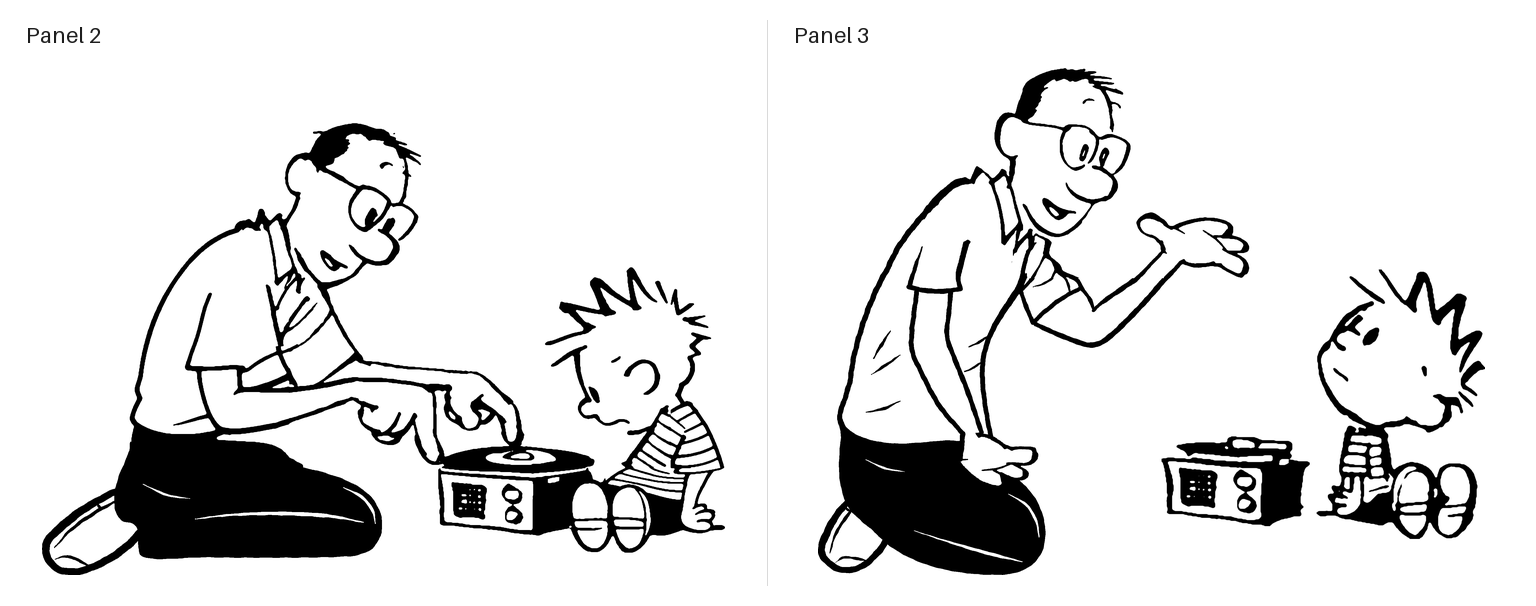
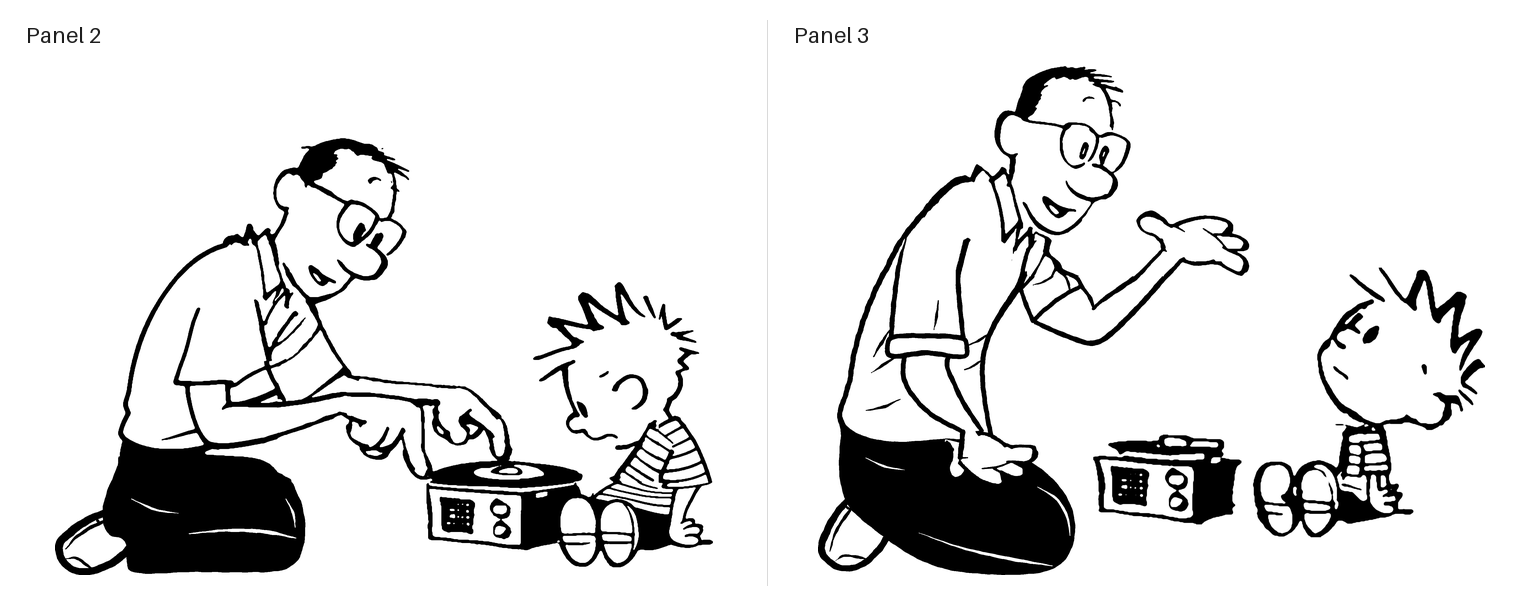
Knee where the scan puts it; Dad's real sleeve; Calvin faces the player
Panel 2: the black at the scan's bottom-left corner is the top of Dad's
knee, already turning down at the crop's foot, so the knee now comes
straight down to the floor there instead of running on to a second knee
further out. The lap is compact under his forearm and the trailing shoe
shorter.

Panel 3: the near sleeve is drawn as his sleeves are in panels 1 and 2,
long and loose with a turned-up cuff, and the forearm comes out below
it. The resting hand has its thumb again, turned to lie down the side of
the thigh. The thigh is longer again, with the knee lower and further
out.

Calvin in panel 3 faces the player as in panel 2: his body is panel 1's
turned about the middle of his torso, under his unchanged head, and the
player moves left to stay in front of his feet. The inserts are inked
over the panel so they leave the scanned crop untouched.

diff --git a/panels.html b/panels.html
@@ -8,12 +8,12 @@
 <p class="details">2834 × 2066 pixels · original-crop agreement: 100% · <a href="assets/full-panels/panel1.png?v=b03ae498a9" download="panel1.png">Download PNG</a> · <a href="assets/full-panels/panel1.png?v=b03ae498a9" target="_blank" rel="noopener">Open full size</a></p>
 <label><input class="show-source" type="checkbox"> Show original crop overlay</label>
 <div class="scroll"><div class="stage" style="--native-width:2834px"><img class="complete" src="assets/full-panels/panel1.png?v=b03ae498a9" width="2834" height="2066" alt="Completed comic panel 1 without dialogue" loading="lazy"><img class="source" src="assets/full-panels/original1.png" style="left:14.114326040931546%;top:0.0%;width:57.657021877205366%" width="1634" height="2066" alt="Original crop of panel 1" hidden></div></div></section><section id="panel-2"><h2>Panel 2</h2><p>Dad points to the record, sitting back on his heels. His trousers are drawn in code (drawn_legs.py); the trailing shoe is panel 1's planted shoe turned sole up. The player uses the grille and knobs from panel 1.</p>
-<p class="details">3182 × 3660 pixels · original-crop agreement: 99.251% · <a href="assets/full-panels/panel2.png?v=4a33fd94bb" download="panel2.png">Download PNG</a> · <a href="assets/full-panels/panel2.png?v=4a33fd94bb" target="_blank" rel="noopener">Open full size</a></p>
+<p class="details">3182 × 3660 pixels · original-crop agreement: 99.251% · <a href="assets/full-panels/panel2.png?v=966a9f53e3" download="panel2.png">Download PNG</a> · <a href="assets/full-panels/panel2.png?v=966a9f53e3" target="_blank" rel="noopener">Open full size</a></p>
 <label><input class="show-source" type="checkbox"> Show original crop overlay</label>
-<div class="scroll"><div class="stage" style="--native-width:3182px"><img class="complete" src="assets/full-panels/panel2.png?v=4a33fd94bb" width="3182" height="3660" alt="Completed comic panel 2 without dialogue" loading="lazy"><img class="source" src="assets/full-panels/original2.png" style="left:25.1414204902577%;top:0.0%;width:49.7171590194846%" width="1582" height="2060" alt="Original crop of panel 2" hidden></div></div></section><section id="panel-3"><h2>Panel 3</h2><p>Dad rests his hand on his thigh. Everything of him outside the scanned crop is drawn in code (drawn_legs.py); the resting hand is his scanned gesturing hand turned palm down. Calvin looks up at Dad with his feet still toward the player. His figure and the player come from panel 1, enlarged by 56% for this closer view.</p>
-<p class="details">3174 × 3660 pixels · original-crop agreement: 100% · <a href="assets/full-panels/panel3.png?v=d9b1590dc4" download="panel3.png">Download PNG</a> · <a href="assets/full-panels/panel3.png?v=d9b1590dc4" target="_blank" rel="noopener">Open full size</a></p>
+<div class="scroll"><div class="stage" style="--native-width:3182px"><img class="complete" src="assets/full-panels/panel2.png?v=966a9f53e3" width="3182" height="3660" alt="Completed comic panel 2 without dialogue" loading="lazy"><img class="source" src="assets/full-panels/original2.png" style="left:25.1414204902577%;top:0.0%;width:49.7171590194846%" width="1582" height="2060" alt="Original crop of panel 2" hidden></div></div></section><section id="panel-3"><h2>Panel 3</h2><p>Dad rests his hand on his thigh. Everything of him outside the scanned crop is drawn in code (drawn_legs.py); the resting hand is his scanned gesturing hand turned palm down. Calvin looks up at Dad with his feet still toward the player. His figure and the player come from panel 1, enlarged by 56% for this closer view.</p>
+<p class="details">3174 × 3660 pixels · original-crop agreement: 100% · <a href="assets/full-panels/panel3.png?v=2e81b17076" download="panel3.png">Download PNG</a> · <a href="assets/full-panels/panel3.png?v=2e81b17076" target="_blank" rel="noopener">Open full size</a></p>
 <label><input class="show-source" type="checkbox"> Show original crop overlay</label>
-<div class="scroll"><div class="stage" style="--native-width:3174px"><img class="complete" src="assets/full-panels/panel3.png?v=d9b1590dc4" width="3174" height="3660" alt="Completed comic panel 3 without dialogue" loading="lazy"><img class="source" src="assets/full-panels/original3.png" style="left:25.20478890989288%;top:0.0%;width:49.59042218021424%" width="1574" height="2060" alt="Original crop of panel 3" hidden></div></div></section><section id="panel-4"><h2>Panel 4</h2><p>Original night scene with the existing completed left side of the bed.</p>
+<div class="scroll"><div class="stage" style="--native-width:3174px"><img class="complete" src="assets/full-panels/panel3.png?v=2e81b17076" width="3174" height="3660" alt="Completed comic panel 3 without dialogue" loading="lazy"><img class="source" src="assets/full-panels/original3.png" style="left:25.20478890989288%;top:0.0%;width:49.59042218021424%" width="1574" height="2060" alt="Original crop of panel 3" hidden></div></div></section><section id="panel-4"><h2>Panel 4</h2><p>Original night scene with the existing completed left side of the bed.</p>
 <p class="details">2368 × 2042 pixels · original-crop agreement: 100% · <a href="assets/full-panels/panel4.png?v=4821633204" download="panel4.png">Download PNG</a> · <a href="assets/full-panels/panel4.png?v=4821633204" target="_blank" rel="noopener">Open full size</a></p>
 <label><input class="show-source" type="checkbox"> Show original crop overlay</label>
 <div class="scroll"><div class="stage" style="--native-width:2368px"><img class="complete" src="assets/full-panels/panel4.png?v=4821633204" width="2368" height="2042" alt="Completed comic panel 4 without dialogue" loading="lazy"><img class="source" src="assets/full-panels/original4.png" style="left:16.89189189189189%;top:0.0%;width:66.21621621621621%" width="1568" height="2042" alt="Original crop of panel 4" hidden></div></div></section><footer><p>The source comparisons use the cleaned, smoothed artwork extracted from page 247, with lettering and balloons removed. Panel 4’s signature remains a separate asset. Agreement percentages count every pixel in the original crop, including white background; panel 2 includes the earlier elbow repair. Panel 3 preserves every original ink pixel and directly reuses the original seated Calvin and record player.</p><p><a href="assets/full-panels/verification.json">Pixel comparison results</a> · <a href="assets/full-panels/provenance.json">Artwork sources and rebuild steps</a></p></footer></main>

diff --git a/tools/extensions/reconstruction-v2/drawn_legs.py b/tools/extensions/reconstruction-v2/drawn_legs.py
@@ -98,22 +98,22 @@ def panel_two(image):
     ink = Ink((w, h), seed=2)
     # His near foot trails behind him, toe on the floor and heel up under his
     # seat, the sole turned back: the same shoe as in panel 3, seen side on.
-    shoe(ink, heel=(446, 2196), angle=146, scale=0.95, flip=True, foreshorten=0.78)
-    # The trousers. His seat rounds out behind him over his heels; the
-    # thigh runs forward to one round knee on the floor; the shin lies under
-    # it, back to the ankle under his seat. The top edge continues the
-    # scanned silhouette (the last points) and the hem of his shirt.
+    shoe(ink, heel=(450, 2214), angle=150, scale=0.84, flip=True, foreshorten=0.62)
+    # The trousers. In the scan the top of his knee is just under his
+    # forearm, its front already turning down at the crop's foot (x=1051),
+    # so the knee comes straight down to the floor there. His seat rounds
+    # out behind him over his heels and the shin lies under the thigh.
     ink.fill([(428, 1962), (420, 2000), (400, 2048), (378, 2104), (366, 2160),
               (370, 2214), (392, 2252), (432, 2262), (452, 2290), (452, 2340),
-              (466, 2380), (700, 2385), (1000, 2386), (1180, 2383), (1252, 2376),
-              (1302, 2352), (1330, 2308), (1336, 2252), (1318, 2196), (1280, 2150),
-              (1215, 2110), (1140, 2082), (1090, 2068), (1051, 2058), (1033, 2040),
-              (980, 2000), (720, 1990), (720, 1962)], wobble=1.2)
-    # Folds: where the thigh lies on the shin, the back of the knee and the seat.
-    ink.stroke([(1268, 2258), (1150, 2236), (960, 2226), (780, 2232), (660, 2246)],
-               [3, 14, 13, 9, 3], colour=255, wobble=0.8)
-    ink.stroke([(1196, 2132), (1262, 2166), (1302, 2216), (1312, 2262)],
-               [2, 10, 11, 3], colour=255, wobble=0.6)
+              (466, 2380), (700, 2385), (900, 2386), (990, 2383), (1040, 2370),
+              (1076, 2338), (1096, 2280), (1100, 2210), (1088, 2140), (1068, 2092),
+              (1051, 2058), (1033, 2040), (980, 2000), (720, 1990), (720, 1962)],
+             wobble=1.2)
+    # Folds: where the thigh lies on the shin, the front of the knee and the seat.
+    ink.stroke([(1066, 2262), (960, 2240), (820, 2234), (680, 2246)],
+               [3, 14, 12, 8, 3], colour=255, wobble=0.8)
+    ink.stroke([(1030, 2120), (1056, 2170), (1064, 2222)],
+               [2, 9, 3], colour=255, wobble=0.6)
     ink.stroke([(470, 2120), (560, 2160), (640, 2172)],
                [2, 9, 2], colour=255, wobble=0.6)
     yy, xx = np.mgrid[:h, :w]
@@ -206,6 +206,28 @@ def resting_hand(image, target, angle, scale=1.0):
     return ink | edge.mask(), shape, move(a), move(b)
 
 
+def resting_thumb(image, target, angle, scale, bend):
+    """The scanned hand's thumb, moved with the hand by `resting_hand` and
+    then turned `bend` degrees about its base, so it lies alongside the
+    fingers on the thigh instead of sticking out backwards."""
+    x0, y0, x1, y1 = SCAN_HAND_BOX
+    a, b = SCAN_WRIST
+    c, d = SCAN_THUMB_BASE
+    middle = np.array([(a[0] + b[0] + 28) / 2, (a[1] + b[1] + 8) / 2])
+    keep = [(x0, y0), (d[0] + 2, d[1]), (c[0] + 2, c[1]), (a[0] + 2, a[1]), (x0, a[1] + 60)]
+    def turn(degrees):
+        t = np.radians(degrees)
+        return np.array([[np.cos(t), -np.sin(t)], [np.sin(t), np.cos(t)]])
+    # Where the thumb's base lands with the hand, and the target that turns
+    # the whole thumb a further `bend` about it.
+    hand = turn(angle) @ np.diag([1, -1]) * scale
+    base = hand @ (np.array([(a[0] + c[0]) / 2, (a[1] + c[1]) / 2]) - middle) + target
+    moved = turn(bend) @ (np.asarray(target, float) - base) + base
+    ink, shape, _ = transplant(image, keep, [(a, c)], middle, moved, angle + bend,
+                               flip=True, scale=(scale, scale), size=image.size)
+    return ink, shape
+
+
 # Dad's planted back shoe in panel 1, in side view, in the coordinates of
 # the full panel 1 export. Only the part inside the scanned crop (x >= 400)
 # is used; the trouser leg covers its top at the heel, so `keep` stops just
@@ -234,6 +256,7 @@ def panel_one_shoe(target, angle, scale, size):
 HAND_WRIST = (1000, 2700)
 HAND_TILT = 28
 HAND_SCALE = 0.95
+THUMB_BEND = -80
 
 
 def panel_three(image):
@@ -257,14 +280,15 @@ def panel_three(image):
     # hip is about a head width above the floor. He is nearer us than Calvin,
     # so he meets the floor lower in the panel than Calvin does.
     ink.fill([(458, 2580), (446, 2642), (457, 2700), (452, 2780), (450, 2860),
-              (462, 2940), (490, 3010), (540, 3062), (590, 3104), (650, 3160),
-              (730, 3210), (830, 3250), (950, 3276), (1080, 3286), (1170, 3280),
-              (1240, 3250), (1286, 3196), (1302, 3122), (1292, 3042), (1258, 2966),
-              (1196, 2896), (1120, 2830), (1040, 2774), (960, 2728), (880, 2702),
-              (700, 2690), (600, 2650)], wobble=1.2)
-    ink.stroke([(1206, 3232), (1060, 3196), (890, 3146), (760, 3104)],
+              (462, 2940), (490, 3010), (540, 3062), (600, 3110), (680, 3170),
+              (780, 3230), (900, 3272), (1050, 3290), (1200, 3292), (1300, 3280),
+              (1370, 3245), (1410, 3185), (1425, 3110), (1415, 3030), (1380, 2955),
+              (1320, 2885), (1240, 2825), (1140, 2775), (1040, 2745), (950, 2725),
+              (880, 2712), (700, 2700), (600, 2650)], wobble=1.2)
+    # Folds: the thigh's underside lying on the shin, and round the knee.
+    ink.stroke([(1330, 3256), (1150, 3226), (950, 3180), (780, 3120)],
                [3, 14, 12, 6, 2], colour=255, wobble=0.8)
-    ink.stroke([(1150, 2952), (1226, 3000), (1266, 3070), (1276, 3130)],
+    ink.stroke([(1270, 2930), (1350, 2982), (1394, 3060), (1404, 3130)],
                [2, 10, 11, 3], colour=255, wobble=0.6)
     ink.stroke([(560, 2810), (640, 2846), (720, 2860)],
                [2, 9, 2], colour=255, wobble=0.6)
@@ -315,30 +339,35 @@ def panel_three(image):
                 (1572, 2298), (1640, 2234), (1722, 2148), (1799, 2059), (1846, 2005)],
                [18, 20, 21, 22, 22, 21, 22, 23])
 
-    # The near sleeve: a loose short sleeve with a plain hem, as Dad's
-    # sleeves are drawn in panels 1 and 2, ending just below where its front
-    # edge leaves the crop at x=942.
-    ink.stroke([(794, 1930), (766, 2010), (740, 2094)], [3, 16, 19])
-    ink.stroke([(953, 2000), (942, 2059), (950, 2100)], [20, 20, 19])
-    hem = [(738, 2096), (800, 2110), (880, 2114), (952, 2104)]
-    # The arm comes out of the sleeve, drops to the elbow and reaches forward
-    # along his thigh to the hand.
+    # The near sleeve, as Dad's sleeves are drawn in panels 1 and 2: long
+    # and loose, nearly to the elbow and about twice the arm's width, with a
+    # turned-up cuff. Its front edge is the line leaving the crop at x=942;
+    # its back edge leaves his back below the shoulder.
     hand_ink, hand_shape, thumb_end, palm_end = resting_hand(image, HAND_WRIST, HAND_TILT, HAND_SCALE)
-    # The forearm's underside meets the wrist's thumb end, its top the palm end.
-    left = [(772, 2110), (760, 2200), (750, 2290), (752, 2362), (790, 2450),
-            (866, 2590), thumb_end]
-    right = [(912, 2112), (904, 2200), (896, 2300), (930, 2400), (978, 2520),
-             palm_end]
+    thumb_ink, thumb_shape = resting_thumb(image, HAND_WRIST, HAND_TILT, HAND_SCALE, THUMB_BEND)
+    # The arm below the sleeve: a short stretch of upper arm, the elbow, and
+    # the forearm reaching forward along his thigh to the hand.
+    left = [(721, 2392), (714, 2440), (722, 2496), (760, 2560), (830, 2630), thumb_end]
+    right = [(901, 2390), (896, 2430), (924, 2500), (962, 2580), palm_end]
     ink.fill(left + right[::-1], colour=255, wobble=0)
-    ink.stroke(hem, [19, 20, 20, 18])
+    sleeve_back = [(728, 1900), (700, 2000), (682, 2120), (670, 2240), (664, 2330)]
+    sleeve_front = [(953, 2000), (942, 2059), (946, 2150), (956, 2250), (964, 2330)]
+    ink.fill(sleeve_back + sleeve_front[::-1], colour=255, wobble=0)
+    ink.stroke(sleeve_back, [4, 18, 20, 20, 19])
+    ink.stroke(sleeve_front, [20, 20, 20, 19, 19])
+    ink.stroke([(860, 2160), (852, 2230), (842, 2280)], [3, 12, 3])
+    outlined(ink, [(660, 2318), (810, 2306), (968, 2322), (978, 2352), (972, 2388),
+                   (810, 2376), (658, 2386), (650, 2352)])
     # The forearm's edges go over the hand's wrist so the two join.
     edges = Ink((w, h), seed=4)
     edges.stroke(left, [19, 20, 19, 20, 18])
     edges.stroke(right, [19, 19, 20, 18])
 
     yy, xx = np.mgrid[:h, :w]
-    region = ((xx < 800) | (yy >= 2060)) & (xx < 1900) & ~((xx >= 1700) & (yy >= 2600))
+    region = ((xx < 800) | (yy >= 2060)) & (xx < 1900) & ~((xx >= 1440) & (yy >= 2600))
     drawing = ink.mask()
+    drawing[thumb_shape] = False
+    drawing |= thumb_ink
     drawing[hand_shape] = False
     drawing |= hand_ink | edges.mask()
     return composite(image, drawing, region)

diff --git a/tools/extensions/reconstruction-v2/assemble.py b/tools/extensions/reconstruction-v2/assemble.py
@@ -16,6 +16,15 @@ HERE = Path(__file__).resolve().parent
 OUT = b.ROOT / 'assets/full-panels'
 RESAMPLE = Image.Resampling.LANCZOS
 CALVIN_SCALE = 1.56
+# Turning Calvin's body about his torso needs room on the left for his legs.
+CALVIN_TURN_MARGIN = 100
+CALVIN_TORSO_MIDDLE = 67
+# Where panel 3's Calvin and player go: his head where it was, the crop now
+# starting CALVIN_SHIFT source pixels further left for his turned legs (100
+# source pixels are exactly 312 export pixels), the player beyond his toes.
+CALVIN_SHIFT = 100
+CALVIN_AT = (2422 - round(CALVIN_SHIFT * 2 * CALVIN_SCALE), 2024)
+PLAYER_AT = (1500, 2714)
 
 
 def drawing(filename, size):
@@ -73,11 +82,26 @@ def scaled_inserts():
     ImageDraw.Draw(child).polygon([(231, 219), (217, 242), (216, 291),
                                    (214, 316), (210, 337), (216, 379),
                                    (432, 379), (432, 219)], fill=255)
-    # Calvin exactly as Watterson drew him in panel 1: head and body together.
+    # In panel 2 Calvin sits facing left, his feet towards the player, so turn
+    # his seated body about the middle of his torso (x=67) to face left too,
+    # keeping it under his head, which still looks up towards Dad. The neck
+    # line divides head from body.
+    neck = [(0, 213), (56, 213), (62, 212), (71, 216), (78, 219), (86, 217),
+            (99, 214), (116, 215), (123, 221), (210, 225), (228, 225)]
+    head = child.copy()
+    ImageDraw.Draw(head).polygon(neck + [(228, 380), (0, 380)], fill=255)
+    body = child.copy()
+    ImageDraw.Draw(body).polygon([(0, 0), (228, 0)] + neck[::-1], fill=255)
+    margin, axis = CALVIN_TURN_MARGIN, CALVIN_TORSO_MIDDLE
+    child = Image.new('L', (228 + margin, 380), 255)
+    child.paste(head, (margin, 0))
+    turned = Image.new('L', child.size, 255)
+    turned.paste(ImageOps.mirror(body), (margin + 2 * axis - 227, 0))
+    child = ImageChops.darker(child, turned)
     player = source.crop((218, 226, 415, 349))
     ImageDraw.Draw(player).polygon([(0, 84), (5, 84), (7, 101), (0, 101)], fill=255)
     # Anchor the face to the original seated figure's box even when the toes move.
-    child = child.crop((3, 8, 226, 365))
+    child = child.crop((margin + 3 - CALVIN_SHIFT, 8, margin + 226, 365))
     player = player.crop(ImageChops.invert(player).getbbox())
     result = []
     for art in (child, player):
@@ -93,8 +117,10 @@ def panel_three(original):
     result = b.smooth(np.asarray(staged) < 128)
     result.paste(original, (800, 0))
     child, player = scaled_inserts()
-    result.paste(child, (2422, 2024))
-    result.paste(player, (1782, 2714))
+    # Ink them over the panel, so their white surround leaves the scan alone.
+    for art, at in ((child, CALVIN_AT), (player, PLAYER_AT)):
+        box = (*at, at[0] + art.width, at[1] + art.height)
+        result.paste(ImageChops.darker(result.crop(box), art), box)
     return result
 
 

diff --git a/tests/test_full_panel_artwork.py b/tests/test_full_panel_artwork.py
@@ -40,17 +40,29 @@ def test_original_overlaps_and_panel2_repair_are_preserved():
 def test_panel3_reuses_the_scanned_child_and_player_at_closeup_scale():
     image = Image.open(OUT / 'panel3.png')
     pair = Image.open(OUT / 'reused-calvin-player.png')
-    # Calvin is used whole, exactly as drawn in panel 1, so his head and body
-    # join as Watterson drew them. Check each insert away from the shoe-to-
-    # player contact which was separated.
-    for bounds, (x, y), interior in [
-        ((6, 16, 452, 730), (2422, 2024), (25, 15, 600, 1080)),
-        ((436, 458, 828, 696), (1782, 2714), (80, 80, 510, 340)),
-    ]:
-        source = pair.crop(bounds)
-        scaled = source.resize(tuple(round(v * 1.56) for v in source.size), Image.Resampling.LANCZOS)
-        actual = image.crop((x, y, x + scaled.width, y + scaled.height))
-        assert np.array_equal(np.asarray(actual.crop(interior)), np.asarray(scaled.crop(interior)))
+    scale = 1.56
+
+    def scaled(art):
+        return art.resize(tuple(round(v * scale) for v in art.size), Image.Resampling.LANCZOS)
+
+    # Calvin's head is exactly as in panel 1, looking up towards Dad.
+    def agreement(art, x, y):
+        actual = image.crop((x, y, x + art.width, y + art.height))
+        return np.mean((np.asarray(actual) < 128) == (np.asarray(art) < 128))
+
+    head = scaled(pair.crop((6, 16, 452, 420)))
+    assert agreement(head, 2422, 2024) > 0.98
+    # His seated body is panel 1's turned about the middle of his torso
+    # (x=134 in the reused export), so he faces the player as in panel 2,
+    # and stays under his head at the same scale.
+    body = scaled(ImageOps.mirror(pair.crop((0, 450, 268, 730))))
+    # (Mirroring about a pixel boundary moves it by a couple of export pixels.)
+    assert agreement(body, round(2422 - 6 * scale) + 2, round(2024 + (450 - 16) * scale)) > 0.97
+    # The player, away from the shoe-to-player contact which was separated.
+    player = scaled(pair.crop((436, 458, 828, 696)))
+    actual = image.crop((1500, 2714, 1500 + player.width, 2714 + player.height))
+    interior = (80, 80, 510, 340)
+    assert np.array_equal(np.asarray(actual.crop(interior)), np.asarray(player.crop(interior)))
 
 
 def test_calvin_keeps_his_scale_relative_to_dad():
